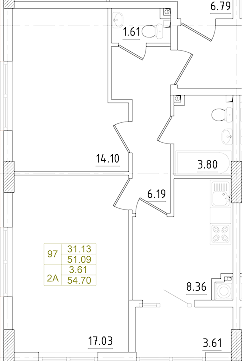
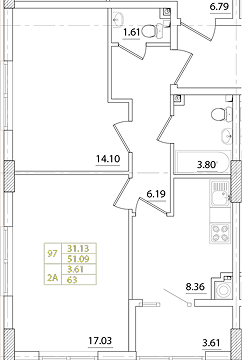
fix 17.02

diff --git a/public/assets/assets/index-DBrBO7qF.css b/public/assets/assets/index-DBrBO7qF.css
@@ -1,0 +1,1 @@
+@charset "UTF-8";@import"https://fonts.googleapis.com/css2?family=Montserrat:ital,wght@0,100..900;1,100..900&display=swap";:root{--color-grey: #2c2c2c;--color-grey-70: #c3c3c3;--color-grey-50: #f0f0f0;--color-main-active: #49a39e;--color-main-active-70: #49a39ee6;--color-main-active-50: #52b8b2;--color-navy: #001f3d;--color-navy-40: #001f3d66;--color-wihte: #ffffff;--color-wihte-50: #f6faff33;--screen-height: 690px;--screen-width: 100%;--height-out-advance-block: 100%;--height-item-faq: 0;--height-item-faq-title: 0;--height-item-servic-mob: 0;--height-planning: 0;--height-planning-active: 0;--height-text-active: 0;--height-text: 0}.feedback__wrp,.header__menu-logo-wrp,.header__wrp{display:flex;align-items:center;justify-content:space-between}.about-project__specif-list{display:flex;justify-content:space-between;flex-wrap:wrap}.open-form__wrp,.green-block__wrp,.separator__wrp,.about-project__wrp-text,.why-choose__img-left,.why-choose__img-rigth,.block-under-banner__destop,.footer__wrp-info,.footer__social-wrp,.footer__wrp-cont{display:flex;align-items:self-start;justify-content:space-between}.open-form__btn,.planning__btn,.feedback__btn,.header__btn,.header__nav-list,.header__nav-wrp,.btn-black,.btn{display:flex;align-items:center;justify-content:center}.about-project__specif-item,.alert{display:flex;flex-direction:column;align-items:center;justify-content:center}.footer__nav{display:flex;flex-direction:column;align-items:flex-start;justify-content:flex-start}.open-form,.buy-apartment,.green-block__wrp,.life,.separator__wrp,.about-project,.planning,.feedback__wrp,.why-choose,.tour__title-wrp,.block-under-banner__destop,.footer__wrp,.header__wrp,.line{margin-left:auto;margin-right:auto}.overlay{transition:.2s}.overlay.active{position:fixed;top:0;left:0;width:100%;height:100%;background-color:var(--color-wihte-50);-webkit-backdrop-filter:blur(5px);backdrop-filter:blur(5px);z-index:999;transition:.2s}@media (max-width: 620px){.overlay.active{background-color:var(--color-wihte-50)}}.modal{max-width:600px;width:100%;padding:20px;opacity:0;visibility:hidden;position:fixed;top:50%;left:50%;transform:translate(-50%,-50%);background-color:#fff;border-radius:10px;box-shadow:0 0 10px #0000004d;z-index:1000;transition:.2s}.modal.active{opacity:1;visibility:initial;transition:.2s}@media (max-width: 620px){.modal.active{max-width:none;height:100vh;border-radius:0}}html,body{min-height:100vh;width:100%;font-family:Montserrat,serif;color:var(--color-grey);line-height:120%}.img-svg{opacity:1}.img-svg svg{height:100%;width:100%;max-height:100%;max-width:100%;min-height:100%;min-width:100%}*,*:before,*:after{box-sizing:border-box;border:0 none;background-color:transparent;scroll-behavior:smooth}ul,ol{padding:0}body,h1,h2,h3,h4,h5,h6,p,ul,ol,li,figure,figcaption,blockquote,dl,dd{margin:0}body{min-height:100vh;scroll-behavior:smooth;text-rendering:optimizeSpeed;font-size:14px}ul,ol{list-style:none}a{color:inherit;cursor:pointer;text-decoration:none}a:not([class]){text-decoration-skip-ink:auto;cursor:pointer}img{max-width:100%;display:block}input,button,textarea,select{font:inherit;cursor:pointer;padding:0;border:none;outline:none}input,textarea{outline:none;transition:.2s}label{cursor:pointer}@media (prefers-reduced-motion: reduce){*{animation-duration:.01ms!important;animation-iteration-count:1!important;transition-duration:.01ms!important;scroll-behavior:auto!important}}body.active{overflow:hidden}.main{padding-top:98px}.btn{padding:10px 30px;background-color:var(--color-main-active)}.btn-black{width:100%;height:56px;background-color:var(--color-grey);border:1px solid var(--color-main-active);color:var(--color-wihte);font-size:20px;text-transform:uppercase}.line{max-width:1200px;width:100%;height:1px;margin-bottom:30px;display:flex;background-color:var(--color-grey);box-sizing:border-box}.line__wrp{padding-left:16px;padding-right:16px}.main-style-text{font-size:20px;line-height:26px}.main-style-text p+p{margin-top:16px}.main-style-text p{text-align:justify}@media (max-width: 860px){.main-style-text{font-size:16px;line-height:20px}}.main-style-text ul,.main-style-text ol{margin-bottom:24px;padding-left:6px}.main-style-text li+li{margin-top:12px}.main-style-text ul li{position:relative;padding-left:1.5em}.main-style-text ul li:before{content:"";position:absolute;left:0;top:8px;width:.4em;height:.4em;border-radius:50%;background-color:var(--color-main-active)}.main-style-text ol{counter-reset:li}.main-style-text ol li{position:relative;padding-left:1.5em}.main-style-text ol li:before{content:counter(li) ". ";counter-increment:li;position:absolute;left:0;top:50%;transform:translateY(-50%);color:var(--color-main-active);font-weight:700}.title{font-size:60px;font-weight:700;color:var(--color-main-active);line-height:130%;text-transform:uppercase}@media (max-width: 1260px){.title{font-size:48px}}@media (max-width: 860px){.title{font-size:30px}}.sub-title{margin-bottom:30px;font-size:32px;font-weight:700;line-height:41.6px;text-align:left;text-transform:uppercase}@media (max-width: 860px){.sub-title{margin-bottom:20px;font-size:20px;line-height:26px}}.btn-white{padding:10px 30px;color:var(--color-main-active);font-family:Montserrat;font-size:40px;line-height:130%;background-color:var(--color-wihte)}.header{width:100%;padding-top:24px;padding-bottom:24px;position:fixed;background-color:var(--color-grey);z-index:99999999}@media (max-width: 1076px){.header{padding-top:10px;padding-bottom:10px}}.header__wrp{max-width:1232px;width:100%;padding-left:16px;padding-right:16px}@media (max-width: 860px){.header__wrp{padding-left:16px;padding-right:16px}}.header__logo{width:50px}@media (max-width: 1076px){.header__logo{width:40px}}@media (max-width: 1076px){.header__nav{width:100%}}@media (max-width: 1076px){.header__nav-wrp{width:100%;height:100vh;padding:30px;position:absolute;top:0;left:-100%;right:0;flex-direction:column;align-items:flex-start;justify-content:flex-start;background-color:var(--color-grey);transition:left .3s}.header__nav-wrp.active{left:0;overflow-y:auto;transition:left .3s}}@media (max-width: 1076px){.header__nav-list{margin-bottom:40px;flex-direction:column;gap:10px}}.header__item{color:var(--color-wihte);padding:10px 20px;border:2px solid transparent}.header__item.active{border-color:var(--color-wihte)}@media (max-width: 1260px){.header__item{padding:10px}}@media (max-width: 1076px){.header__item{width:100%;font-size:16px;padding-left:0;padding-right:0}.header__item.active{border:2px solid transparent}.header__item a{width:100%;display:flex;text-align:left;line-height:120%}}.header__btn{height:48px;color:var(--color-wihte);font-size:20px;font-weight:600}@media (max-width: 1076px){.header__btn{display:none}}.header__menu{display:none;position:relative}@media (max-width: 1076px){.header__menu{display:flex}}.header__menu-btn{width:28px;height:19px;position:relative}.header__menu-line-t,.header__menu-line-c,.header__menu-line-b{position:absolute;width:28px;height:3px;background-color:var(--color-wihte)}.header__menu-line-t{top:0}.header__menu-line-c{top:50%;left:50%;transform:translate(-50%,-50%)}.header__menu-line-b{bottom:0}.header__menu-logo{width:50px}.header__menu-btn-close{position:relative;width:40px;height:40px}.header__menu-btn-close>.header__menu-line-c{display:none}.header__menu-btn-close>.header__menu-line-t{height:1px;top:10px;left:0;transform:rotate(-45deg)}.header__menu-btn-close>.header__menu-line-b{height:1px;top:10px;left:0;transform:rotate(45deg)}.header__nav-menu-tel{display:none;width:100%;height:54px;margin-bottom:20px;color:var(--color-wihte);font-size:20px}@media (max-width: 1076px){.header__nav-menu-tel{display:flex}}.header__nav-menu-btn-call{display:none;margin-bottom:40px}@media (max-width: 1076px){.header__nav-menu-btn-call{display:flex}}.header__nav-menu-text{display:none;color:var(--color-wihte);font-size:20px;line-height:130%}@media (max-width: 1076px){.header__nav-menu-text{display:flex}}.header__nav-menu-text+.header__nav-menu-text{margin-top:20px}.header__mob-phone{display:none}@media (max-width: 1076px){.header__mob-phone{display:flex}}.header__menu-logo-wrp{display:none;width:100%;margin-bottom:48px}@media (max-width: 1076px){.header__menu-logo-wrp{display:flex}}.footer{background-color:var(--color-grey)}.footer__wrp{color:var(--color-wihte);max-width:1232px;width:100%;padding:60px 16px}@media (max-width: 860px){.footer__wrp{padding-left:16px;padding-right:16px}}.footer__nav-item{padding-top:8px;padding-bottom:8px;font-size:16px;white-space:nowrap}@media (max-width: 860px){.footer__wrp-cont{gap:30px;flex-direction:column}}.footer__social-wrp{gap:50px}.footer__tel{font-size:21px;white-space:nowrap}.footer__map-text{display:flex}.footer__map-text:last-of-type{margin-bottom:21px}.footer__map-text+.footer__map-text{margin-top:4px}.footer__wrp-info{width:74%;gap:16px}@media (max-width: 1076px){.footer__wrp-info{width:88%}}@media (max-width: 860px){.footer__wrp-info{flex-direction:column-reverse}}.banner{margin-bottom:50px;display:grid;grid-template-columns:1.6fr 1.4fr;grid-template-rows:1fr;grid-column-gap:0px;grid-row-gap:0px;gap:48px}@media (max-width: 1076px){.banner{display:flex;flex-direction:column}}@media (max-width: 860px){.banner{gap:16px}}.banner__title{margin-bottom:30px}@media (max-width: 860px){.banner__title{font-size:30px}}.banner__img-wrp{width:100%;height:702px;overflow:hidden}@media (max-width: 1076px){.banner__img-wrp{height:359px}}.banner__img{width:100%;display:flex;object-fit:cover}@media (max-width: 1500px){.banner__img{width:724px;height:702px}}@media (max-width: 1076px){.banner__img{width:100%;height:100%}}.banner__text-wrp{padding-top:80px;padding-left:16px;display:flex;justify-content:flex-end}@media (max-width: 1076px){.banner__text-wrp{padding-top:30px;padding-right:16px}}.banner__text{max-width:624px}@media (max-width: 1076px){.banner__text{max-width:100%}}.banner__text-style{margin-bottom:40px;font-size:30px;line-height:130%}@media (max-width: 860px){.banner__text-style{margin-bottom:20px;font-size:18px}}.banner__btn{max-width:580px;width:100%;height:70px;gap:16px;margin-bottom:13px;color:var(--color-wihte);font-weight:500;font-size:32px;text-transform:uppercase}@media (max-width: 1076px){.banner__btn{max-width:100%}}@media (max-width: 860px){.banner__btn{height:56px;margin-bottom:5px;font-size:20px}}.banner__text-consyl{font-size:27px;line-height:130%}@media (max-width: 860px){.banner__text-consyl{font-size:14px}}.block-under-banner{margin-bottom:120px}@media (max-width: 860px){.block-under-banner{margin-bottom:80px}}.block-under-banner__destop{gap:40px;max-width:1232px;width:100%;padding-left:16px;padding-right:16px}@media (max-width: 860px){.block-under-banner__destop{padding-left:16px;padding-right:16px}}@media (max-width: 860px){.block-under-banner__destop{display:none}}.block-under-banner__mob{display:none;flex-direction:column}@media (max-width: 860px){.block-under-banner__mob{display:flex}}.block-under-banner__wrp-block{max-width:580px;width:100%}.block-under-banner__img{margin-bottom:30px}.block-under-banner__wrp-block-mob{padding-left:16px;padding-right:16px}.block-under-banner__img-mob{margin-bottom:30px;padding-top:30px}.tour{margin-bottom:120px}@media (max-width: 860px){.tour{margin-bottom:80px}}.tour__title-wrp{max-width:1232px;width:100%;padding-left:16px;padding-right:16px}@media (max-width: 860px){.tour__title-wrp{padding-left:16px;padding-right:16px}}.tour .title{margin-bottom:50px}@media (max-width: 860px){.tour .title{margin-bottom:40px}}.tour__img-wrp{width:100%;height:900px;overflow:hidden}.tour__img-wrp>img{width:100%;height:100%;display:flex;object-fit:cover;object-position:center}@media (max-width: 860px){.tour__img-wrp{height:616px}}.why-choose{margin-bottom:120px;max-width:1232px;width:100%;padding-left:16px;padding-right:16px}@media (max-width: 860px){.why-choose{padding-left:16px;padding-right:16px}}@media (max-width: 860px){.why-choose{margin-bottom:80px}}.why-choose .title{max-width:772px;margin-bottom:20px}.why-choose .line__wrp{padding-left:0;padding-right:0}.why-choose .main-style-text{max-width:580px}@media (max-width: 1076px){.why-choose .main-style-text{max-width:100%}}.why-choose__img-rigth{margin-bottom:30px;gap:40px}@media (max-width: 1076px){.why-choose__img-rigth{gap:20px;flex-direction:column}.why-choose__img-rigth .main-style-text ul{margin-bottom:0}}.why-choose__img-left{margin-bottom:30px;gap:40px}@media (max-width: 1076px){.why-choose__img-left{gap:20px;flex-direction:column-reverse}.why-choose__img-left .main-style-text ul{margin-bottom:0}}.why-choose__img-wrp{width:100%}@media (max-width: 1076px){.why-choose__img-wrp{height:420px}}@media (max-width: 620px){.why-choose__img-wrp{height:276px}}.why-choose__img{width:100%;height:100%;display:flex;object-fit:cover;object-position:center}.why-choose__text-padding{padding-top:16px}.feedback{margin-bottom:120px;background:linear-gradient(90deg,#0000,#00000080),linear-gradient(90deg,#0009,#0000),linear-gradient(90deg,#49a39e6b,#49a39e1f),url(/assets/feedbock-img-Cxn6tdZB.png);background-size:cover;background-position:center}@media (max-width: 860px){.feedback{margin-bottom:80px}}.feedback__wrp{gap:40px;text-align:left;text-transform:uppercase;color:var(--color-wihte);max-width:1232px;width:100%;padding:50px 16px}@media (max-width: 860px){.feedback__wrp{padding-left:16px;padding-right:16px}}@media (max-width: 860px){.feedback__wrp{gap:84px;flex-direction:column}}.feedback__title{margin-bottom:80px;font-size:60px;font-weight:700;line-height:130%}@media (max-width: 860px){.feedback__title{margin-bottom:20px;flex-direction:column;font-size:30px}}.feedback__sub-title{max-width:566px;font-size:32px;font-weight:700;line-height:130%}@media (max-width: 860px){.feedback__sub-title{gap:84px;flex-direction:column;font-size:20px}}.feedback__form{max-width:580px;width:100%}@media (max-width: 860px){.feedback__form{max-width:100%}}.feedback__input{width:100%;height:40px;border-bottom:1px solid var(--color-wihte);font-size:20px;font-weight:400;line-height:130%;color:var(--color-wihte)}.feedback__input::placeholder{margin-bottom:14px;font-size:20px;font-weight:400;line-height:130%;color:var(--color-wihte)}.feedback__input+.feedback__input{margin-top:40px}.feedback__wrp-cont{width:100%}.feedback__agreement-text{margin-bottom:46px;padding-top:16px;font-size:13px;font-weight:400;line-height:130%;text-transform:none}.feedback__btn{width:100%;height:71px;gap:16px;color:var(--color-wihte);font-size:32px;font-weight:500;line-height:39.01px;text-align:center;text-transform:uppercase}@media (max-width: 860px){.feedback__btn{font-size:20px}}.alert{background-color:var(--color-main-active);color:var(--color-wihte);font-size:32px;line-height:130%}.alert.modal{max-width:1200px;width:100%;padding:90px 24px;background-color:var(--color-main-active-70);border-radius:0}.alert.modal.active{height:auto}@media (max-width: 1260px){.alert.modal{max-width:calc(100vw - 36px)}}.alert .title{color:var(--color-wihte)}@media (max-width: 860px){.alert{font-size:24px}}.alert__title{margin-bottom:30px;text-align:center}.alert__text{margin-bottom:74px;font-size:30px;text-align:center}.alert__btn-close{width:40px;height:40px;position:absolute;right:40px;top:40px;cursor:pointer}.alert__btn-close-t,.alert__btn-close-b{width:31px;height:1px;display:flex;position:absolute;top:16px;right:5px;background-color:var(--color-wihte)}.alert__btn-close-t{transform:rotate(45deg)}.alert__btn-close-b{transform:rotate(-45deg)}.planning{margin-bottom:120px;max-width:1232px;width:100%;padding-left:16px;padding-right:16px}@media (max-width: 860px){.planning{padding-left:16px;padding-right:16px}}@media (max-width: 860px){.planning{margin-bottom:80px}}.planning .title{margin-bottom:20px}@media (max-width: 860px){.planning .title{margin-bottom:30px}}.planning__btn{width:100%;height:37px;padding:10px 17px;gap:4px;color:var(--color-wihte);font-size:14px;font-weight:500;line-height:130%;text-align:center;text-transform:uppercase}@media (max-width: 860px){.planning__btn{padding:6px 12px;font-size:8px}}.planning__btn-icon{width:30px}@media (max-width: 860px){.planning__btn-icon{width:18px}}.planning__list{max-width:100%;display:flex;align-items:stretch;flex-wrap:wrap;gap:24px}.planning__wrp-list{height:var(--height-planning);margin-bottom:59px;overflow:hidden;transition:height,.3s}.planning__wrp-list.active{height:var(--height-planning-active);transition:height,.3s}@media (max-width: 860px){.planning__wrp-list{margin-bottom:30px}}.planning__item{max-width:282px;min-width:282px;height:auto;padding:20px;display:flex;flex-direction:column;justify-content:space-between;flex:1;background-color:var(--color-grey-50);flex-basis:calc((100% - 72px)/4);max-width:calc((100% - 72px)/4);min-width:calc((100% - 72px)/4)}@media (max-width: 860px){.planning__item{flex-basis:calc((100% - 2 * 24px) / 3);max-width:calc((100% - 2 * 24px) / 3);min-width:calc((100% - 2 * 24px) / 3);padding:10px}}@media (max-width: 620px){.planning__item{flex-basis:calc((100% - 24px)/2);max-width:calc((100% - 24px)/2);min-width:calc((100% - 24px)/2)}}.planning__img{margin-bottom:20px}.planning__title{margin-bottom:5px;font-size:20px;font-weight:400;line-height:26px;text-align:left}.planning__text{margin-bottom:20px;font-size:14px;font-weight:400;line-height:18.2px;text-align:left}.planning__btn-open{width:100%;gap:12px;color:var(--color-wihte);font-size:30px;font-weight:500;line-height:130%;text-align:center;text-transform:uppercase}@media (max-width: 860px){.planning__btn-open{padding:8px 12px;gap:4px;font-size:20px}}@media (max-width: 860px){.planning__btn-open-icon{width:32px}}.about-project{margin-bottom:120px;max-width:1232px;width:100%;padding-left:16px;padding-right:16px}@media (max-width: 860px){.about-project{padding-left:16px;padding-right:16px}}@media (max-width: 860px){.about-project{margin-bottom:80px}}.about-project .title{margin-bottom:20px}@media (max-width: 860px){.about-project .title{margin-bottom:30px}}.about-project__wrp-list{max-width:580px;width:100%;text-align:justify}.about-project__wrp-text{gap:16px}@media (max-width: 620px){.about-project__wrp-text{gap:0;flex-direction:column}}.about-project__specif-item{width:100%;padding:12px;flex-basis:calc((100% - 2 * 1%) / 3);max-width:calc((100% - 2 * 1%) / 3);min-width:calc((100% - 2 * 1%) / 3);border-right:1px solid var(--color-grey-70);border-left:1px solid var(--color-grey-70)}.about-project__specif-item:nth-child(2),.about-project__specif-item:nth-child(5){border-right:1px solid rgba(195,195,195,0);border-left:1px solid rgba(195,195,195,0)}@media (max-width: 620px){.about-project__specif-item{justify-content:flex-start;flex-basis:49.5%;max-width:49.5%;min-width:49.5%}.about-project__specif-item:nth-child(1){border:none;border-right:1px solid var(--color-grey-70)}.about-project__specif-item:nth-child(2){border:none}.about-project__specif-item:nth-child(3){border:none;border-right:1px solid var(--color-grey-70)}.about-project__specif-item:nth-child(4){border:none}.about-project__specif-item:nth-child(5){border:none;border-right:1px solid var(--color-grey-70)}.about-project__specif-item:nth-child(6){border:none}.about-project__specif-item:last-child{border:none}}.about-project__specif-item-img{margin-bottom:30px}.about-project__specif-item-title{width:100%;margin-bottom:10px;font-weight:700;text-align:center}.about-project__specif-list{row-gap:40px}@media (max-width: 620px){.about-project__specif-list{row-gap:30px;justify-content:center}}.about-project__specif-item-text{text-align:center}.about-project__title{margin-bottom:50px}@media (max-width: 860px){.about-project__title{margin-bottom:40px}}.about-project__title-style{margin-bottom:16px;font-size:60px;line-height:130%;letter-spacing:0%;color:var(--color-main-active);text-align:center}@media (max-width: 860px){.about-project__title-style{font-size:30px}}.about-project__specif-list+.about-project__specif-list{margin-top:40px}.separator{padding-top:30px;padding-bottom:30px;background-color:var(--color-main-active)}.separator .sub-title,.separator .main-style-text{color:var(--color-wihte)}.separator .main-style-text{width:100%}.separator .main-style-text>p{text-align:left}.separator .title{color:var(--color-wihte)}.separator__wrp{gap:5px;max-width:1232px;width:100%;padding-left:16px;padding-right:16px;flex-direction:column}@media (max-width: 860px){.separator__wrp{padding-left:16px;padding-right:16px}}@media (max-width: 620px){.separator__wrp{flex-direction:column}}.life{margin-bottom:120px;max-width:1232px;width:100%;padding-left:16px;padding-right:16px}@media (max-width: 860px){.life{padding-left:16px;padding-right:16px}}@media (max-width: 860px){.life{margin-bottom:80px}}.life .title{margin-bottom:50px}@media (max-width: 860px){.life .title{margin-bottom:30px}}.life__wrp{gap:20px;display:flex;flex-wrap:wrap;justify-content:center}@media (max-width: 1076px){.life__wrp{flex-direction:column;align-items:center}}@media (max-width: 860px){.life__wrp{gap:10px}}.life__wrp-img{display:flex;flex-direction:column;gap:20px;flex:1;min-width:300px}@media (max-width: 1076px){.life__wrp-img{width:100%;max-width:600px}}@media (max-width: 860px){.life__wrp-img{gap:10px}}.life__wrp-img img{width:100%;height:auto;object-fit:cover}.life__wrp-litle-img{display:grid;grid-template-columns:repeat(2,1fr);gap:20px;align-items:stretch}@media (max-width: 860px){.life__wrp-litle-img{gap:10px}}.life__wrp-litle-img .life__img-vert{width:100%;height:auto;object-fit:cover}.life__wrp-litle-img-colum{display:grid;grid-template-rows:repeat(2,1fr);gap:20px}@media (max-width: 860px){.life__wrp-litle-img-colum{gap:10px}}.life__wrp-litle-img-colum img{width:100%;height:auto;object-fit:cover}.green-block{background-color:var(--color-main-active)}.green-block__wrp{margin-bottom:120px;max-width:1232px;width:100%;padding-left:16px;padding-right:16px;align-items:stretch}@media (max-width: 860px){.green-block__wrp{padding-left:16px;padding-right:16px}}@media (max-width: 860px){.green-block__wrp{margin-bottom:80px}}@media (max-width: 1076px){.green-block__wrp{flex-direction:column;padding-left:0;padding-right:0}}.green-block .sub-title,.green-block .main-style-text{color:var(--color-wihte)}.green-block__item{width:100%;height:auto;padding:60px 40px}.green-block__item:nth-child(1){padding-left:0}@media (max-width: 1076px){.green-block__item:nth-child(1){padding-left:16px;padding-right:16px}}.green-block__item:nth-child(2){background-color:var(--color-main-active-50)}.green-block__item:nth-child(3){min-width:430px;padding-right:0}@media (max-width: 1076px){.green-block__item:nth-child(3){min-width:10px;padding-left:16px;padding-right:16px}}@media (max-width: 1076px){.green-block__item{padding:30px 20px}}.buy-apartment{margin-bottom:120px;max-width:1232px;width:100%;padding-left:16px;padding-right:16px}@media (max-width: 860px){.buy-apartment{padding-left:16px;padding-right:16px}}@media (max-width: 860px){.buy-apartment{margin-bottom:80px}}.buy-apartment .title{margin-bottom:20px}.buy-apartment__text-wrp{padding-top:24px}.buy-apartment .caps{text-transform:uppercase}.buy-apartment__text-active{height:var(--height-text-active);margin-bottom:30px;overflow:hidden;transition:.3s}.buy-apartment__text-active.active{height:var(--height-text);transition:.3s}.open-form{margin-bottom:120px;max-width:1232px;width:100%;padding-left:16px;padding-right:16px}@media (max-width: 860px){.open-form{padding-left:16px;padding-right:16px}}@media (max-width: 860px){.open-form{margin-bottom:80px}}.open-form .title{max-width:480px;width:100%}.open-form__input{width:100%;padding-top:14px;padding-bottom:14px;border-bottom:1px solid var(--color-grey);font-size:20px}.open-form__input+.open-form__input{margin-top:26px}.open-form__wrp{gap:24px}@media (max-width: 860px){.open-form__wrp{flex-direction:column}}.open-form__form{max-width:580px;width:100%}@media (max-width: 860px){.open-form__form{max-width:100%}}.open-form__btn{width:100%;height:71px;gap:16px;color:var(--color-wihte);font-size:32px;font-weight:500;line-height:39.01px;text-align:center;text-transform:uppercase}@media (max-width: 860px){.open-form__btn{font-size:20px}}.open-form__text{margin-bottom:46px;padding-top:16px;font-size:13px;color:var(--color-grey)}

diff --git a/src/js/components/buy.js b/src/js/components/buy.js
@@ -11,15 +11,37 @@ export let buy = function() {
 
         let heightTextActive = textActive.getBoundingClientRect().height;
         let heightText = text.getBoundingClientRect().height;
+        // const lineHeight = getComputedStyle(paragraphs[2]).lineHeight;
 
-        console.log(heightText, heightTextActive);
+        // console.log(getComputedStyle(paragraphs[1]));
+        // console.log(paragraphs[2].offsetHeight);
+        // console.log(paragraphs[2].getBoundingClientRect().height);
+        // console.log(paragraphs[1].getBoundingClientRect().height);
+        // console.log(paragraphs[2].offsetHeight);
+        // console.log(paragraphs[2].getBoundingClientRect().height);
+
+        
+        // console.log('Line height: ', lineHeight);
+
+        let sum = 0;
+
+        paragraphs.forEach(el => {
+            sum = sum + el.offsetHeight
+        });
+
+
+        // console.log(sum);
+        // console.log(sum + (16 * paragraphs.length) + heightTextActive);
+        // console.log(heightText);
+        // console.log(heightTextActive);
+        
         
 
         textWrp.style.setProperty('--height-text-active', heightTextActive + 'px');
         
         btn.addEventListener('click', () => {
             textWrp.classList.toggle('active');
-            textWrp.style.setProperty('--height-text', (heightTextActive + heightText + (16 * paragraphs.length) + (13 * 16)) + 'px');
+            textWrp.style.setProperty('--height-text', (sum + 24 + (32 * paragraphs.length) + heightTextActive) + 'px');
 
             if(btnText.innerText === "ЧИТАТИ ДАЛI") {
                 btnText.innerText = "Згорнути"; 

diff --git a/src/scss/components/separator.scss b/src/scss/components/separator.scss
@@ -1,13 +1,8 @@
 .separator {
-  margin-bottom: 120px;
   padding-top: 30px;
   padding-bottom: 30px;
 
   background-color: var(--color-main-active);
-
-  @include w860 {
-    margin-bottom: 80px;
-  }
 
   & .sub-title,
   & .main-style-text {
@@ -15,7 +10,6 @@
   }
 
   & .main-style-text {
-    max-width: 544px;
     width: 100%;
   }
 
@@ -23,15 +17,20 @@
     text-align: left;
   }
 
+  & .title {
+    color: var(--color-wihte);
+  }
+
   &__wrp {
-    gap: 30px;
+    gap: 5px;
 
     @include widthPage;
     @extend %margCenter;
     @extend %flexStartBetwin;
+    flex-direction: column;
 
     @include w620 {
-      gap: 10px;
+      // gap: 10px;
 
       flex-direction: column;
     }

diff --git a/vite.config.js b/vite.config.js
@@ -9,6 +9,7 @@ export default defineConfig({
   build: {
     outDir: 'public/assets',
     emptyOutDir: true,
+    manifest: true,
     rollupOptions: {
       input: 'src/js/index.js'
     }

diff --git a/views/components/planning.php b/views/components/planning.php
@@ -7,32 +7,32 @@ $plans = array(
     ),
     array(
         'img' => '/public/img/planning/item_2.png',
-        'title' => '2 кiмнатна / 58 м2',
+        'title' => '2 кiмнатна / 63 м2',
         'text' => 'поверх 1, кв 2'
     ),
     array(
         'img' => '/public/img/planning/item_3.png',
-        'title' => '1 кiмнатна / 41 м2',
+        'title' => '1 кiмнатна / 44,6 м2',
         'text' => 'поверх 1, кв 3'
     ),
     array(
         'img' => '/public/img/planning/item_4.png',
-        'title' => '1 кiмнатна / 39 м2',
+        'title' => '1 кiмнатна / 41,4 м2',
         'text' => 'поверх 1, кв 5'
     ),
     array(
         'img' => '/public/img/planning/item_5.png',
-        'title' => '1 кiмнатна / 41 м2',
+        'title' => '1 кiмнатна / 43,4 м2',
         'text' => 'поверх 1, кв 6'
     ),
     array(
         'img' => '/public/img/planning/item_6.png',
-        'title' => '1 кiмнатна / 42 м2',
+        'title' => '1 кiмнатна / 45 м2',
         'text' => 'поверх 1, кв 7'
     ),
     array(
         'img' => '/public/img/planning/item_7.png',
-        'title' => '2 кiмнатна / 62 м2',
+        'title' => '2 кiмнатна / 64 м2',
         'text' => 'поверх 1, кв 8'
     ),
 );
@@ -53,10 +53,10 @@ $plans = array(
                         <p class="planning__text">
                             <?= $plan['text'] ?>
                         </p>
-                        <button class="btn planning__btn">
+                        <a href="https://t.me/+380957005055" target="_blank" class="btn planning__btn">
                             <p>дізнатися вартість</p>
                             <img class="planning__btn-icon" src="/public/icon/arrow.svg" alt="Зателефонуйте +380 95 700 50 55">
-                        </button>
+                        </a>
                     </div>
                 </div>
             <?php endforeach; ?>

diff --git a/index.php b/index.php
@@ -1,6 +1,26 @@
 <?php
 $viteServer = 'http://127.0.0.1:5173';
 $devMode = @file_get_contents($viteServer . '/@vite/client') !== false;
+
+// Путь к манифесту
+$manifestPath = __DIR__ . '/public/assets/.vite/manifest.json';
+
+// Загружаем данные из манифеста (если в продакшене)
+$manifest = [];
+if (!$devMode && file_exists($manifestPath)) {
+    $manifest = json_decode(file_get_contents($manifestPath), true);
+}
+
+// Функция для получения пути к файлу из манифеста
+function assetPath($entry)
+{
+    global $manifest;
+    return isset($manifest[$entry]['file']) ? $manifest[$entry]['file'] : $entry;
+}
+
+$jsFile = assetPath('src/js/index.js');
+$cssFile = isset($manifest['src/js/index.js']['css'][0]) ? $manifest['src/js/index.js']['css'][0] : null;
+
 ?>
 
 <!DOCTYPE html>
@@ -28,10 +48,13 @@ $devMode = @file_get_contents($viteServer . '/@vite/client') !== false;
         <script type="module" src="<?= $viteServer ?>/@vite/client"></script>
         <script type="module" src="<?= $viteServer ?>/src/js/index.js"></script>
     <?php else: ?>
-        <link rel="stylesheet" href="/public/assets/index.css">
-        <script src="/public/assets/index.js" defer></script>
+        <?php if ($cssFile): ?>
+            <link rel="stylesheet" href="/public/assets/<?= $cssFile ?>">
+        <?php endif; ?>
+        <?php if ($jsFile): ?>
+            <script src="/public/assets/<?= $jsFile ?>" defer></script>
+        <?php endif; ?>
     <?php endif; ?>
-
 </head>
 
 <body>

diff --git a/views/partials/header.php b/views/partials/header.php
@@ -7,7 +7,7 @@
                 <span class="header__menu-line-b"></span>
             </div>
         </div>
-        <img class="header__logo" src="/public/img/logo-header.png" alt="Логотип Парус">
+        <img class="header__logo" src="/public/img/logo-header.svg" alt="Логотип Парус">
         <div data-nav class="header__nav-wrp">
             <div class="header__nav">
                 <div class="header__menu-logo-wrp">
@@ -20,7 +20,7 @@
                 </div>
                 <ul class="header__nav-list">
                     <li class="header__item">
-                        <a data-anchor href="#about-project">Про комплекс</a>
+                        <a data-anchor href="#about-complex">Про комплекс</a>
                     </li>
                     <li class="header__item">
                         <a data-anchor href="#why-choose">Переваги</a>

diff --git a/views/partials/footer.php b/views/partials/footer.php
@@ -4,7 +4,7 @@
             <img src="/public/img/footer-logo.svg" alt="footer logo">
             <div class="footer__wrp-info">
                 <div class="footer__nav">
-                    <a class="footer__nav-item" href="#about-project">Про комплекс</a>
+                    <a class="footer__nav-item" href="#about-complex">Про комплекс</a>
                     <a class="footer__nav-item" href="#why-choose">Переваги</a>
                     <a class="footer__nav-item" href="#planning">Планування</a>
                     <a class="footer__nav-item" href="#infrastructure-and-comfort">Інфраструктура та комфорт</a>

diff --git a/views/components/separator.php b/views/components/separator.php
@@ -1,8 +1,8 @@
 <section class="separator">
     <div class="separator__wrp">
-        <div class="sub-title">
+        <div class="title">
             <p>
-                Будівництво,</br> що вражає:
+                Будівництво, що вражає:
             </p>
         </div>
         <div class="main-style-text">

diff --git a/views/components/banner.php b/views/components/banner.php
@@ -1,4 +1,4 @@
-<div class="banner">
+<div id="about-complex" class="banner">
     <div class="banner__text-wrp">
         <div class="banner__text">
             <h1 class="banner__title title">
